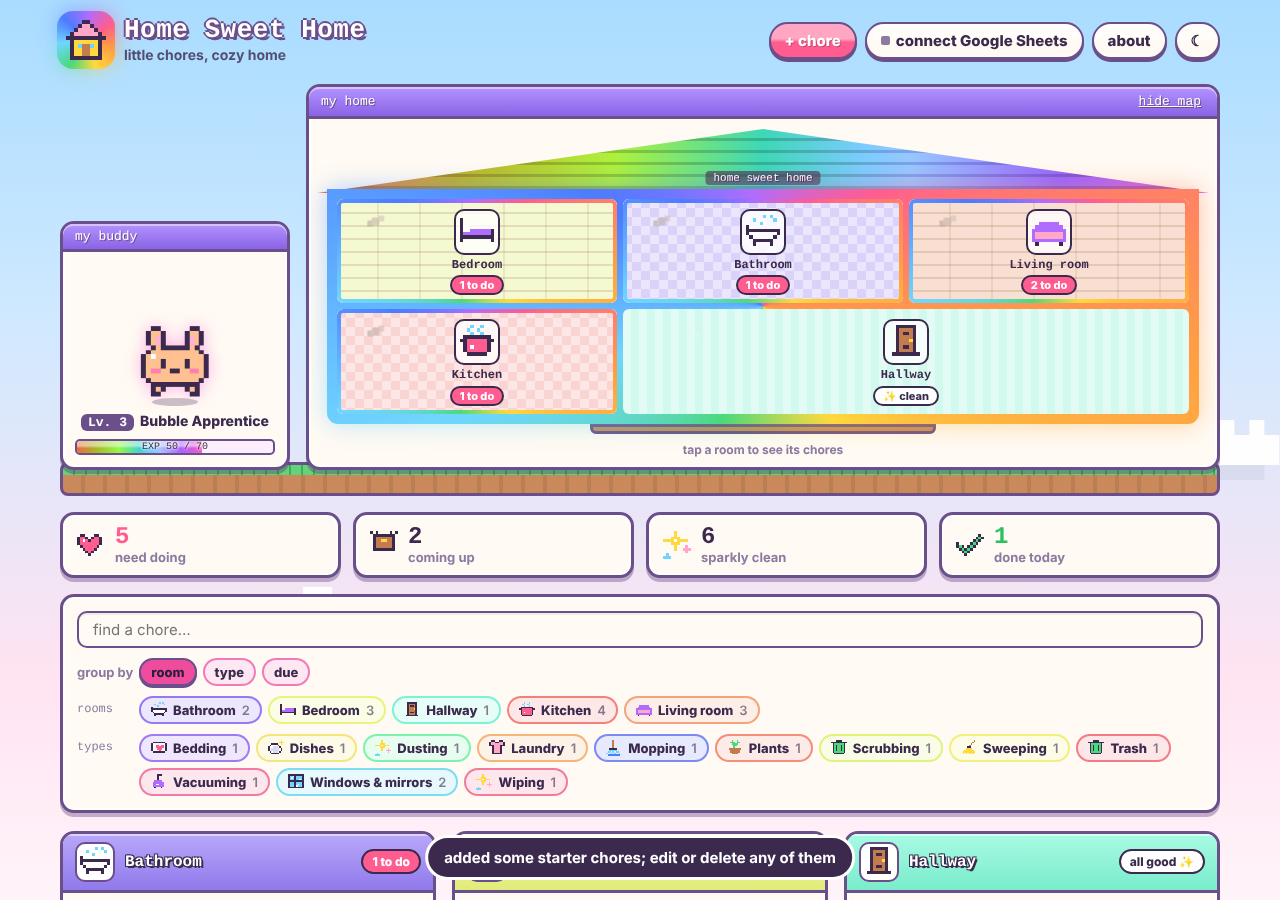
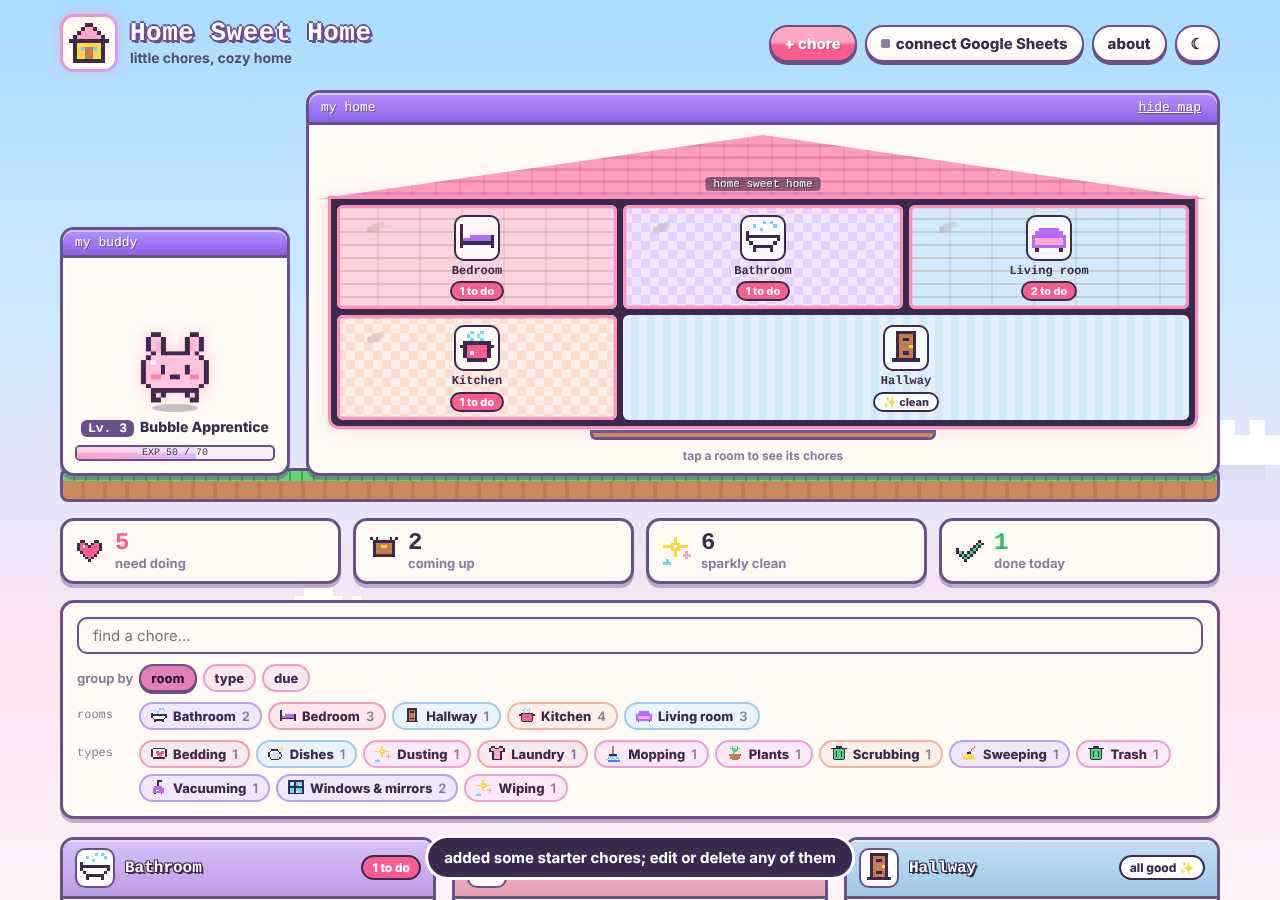
Swap the rainbow for soft pinks and lavenders; label the chore bar
- The bar under each chore now says what it counts ("3 of 7 days" since
  you last did it, out of its schedule), is lavender until due and pink
  when full, and is left off chores with no schedule.
- Due chores and rooms get a soft pink border with a gentle pulse instead
  of a spinning rainbow; the roof, EXP bar, logo ring, Bun and the
  sparkle burst use pink and lavender; room and type colours come from a
  small set of soft pastels.

Claude-Session: https://claude.ai/code/session_013W1csvUX7qKGNKXn2FL2Be

diff --git a/css/style.css b/css/style.css
@@ -1,4 +1,4 @@
-/* Theme tokens and layout for Home Sweet Home: a cozy pixel-game look, with RGB everywhere. */
+/* Theme tokens and layout for Home Sweet Home: a cozy pixel-game look in soft pinks and lavenders. */
 
 :root[data-theme="light"] {
   color-scheme: light;
@@ -13,8 +13,8 @@
   --frame-drop: rgba(80, 50, 110, 0.35);
   --accent: #ff5d8f;
   --ink: #3b2a4d;
-  --sat: 85%;
-  --lum: 62%;
+  --sat: 65%;
+  --lum: 70%;
   --tint: 95%;
   --tint-sat: 85%;
   --cloud-opacity: 0.95;
@@ -52,14 +52,17 @@
   --font-body: 'Nunito', system-ui, sans-serif;
   --font-pixel: 'Silkscreen', 'Courier New', monospace;
   --radius: 14px;
-  /* Rainbow stops; each user writes conic-gradient(from var(--spin), …) itself so the spin animates there. */
-  --rainbow-stops: #ff5d8f, #ff9f43, #ffd93d, #4cd97b, #6fd6ff, #4d7cff, #b06cff, #ff5d8f;
-  --rainbow-line: linear-gradient(90deg, #ff5d8f, #ff9f43, #ffd93d, #4cd97b, #6fd6ff, #4d7cff, #b06cff);
+  /* The soft glow used for logos, due chores and due rooms. */
+  --glow: #ff8fb8;
+  --glow-2: #c3a4ff;
+  --soft-line: linear-gradient(90deg, #ffa3c4, #d9b8ff);
 }
 
-@property --spin { syntax: '<angle>'; inherits: false; initial-value: 0deg; }
-@keyframes spin { to { --spin: 360deg; } }
-@keyframes hue { to { filter: hue-rotate(360deg); } }
+/* A gentle pulse for things that need attention. */
+@keyframes pulse {
+  0%, 100% { box-shadow: 0 0 0 0 rgba(255, 143, 184, 0); }
+  50% { box-shadow: 0 0 0 4px rgba(255, 143, 184, 0.35); }
+}
 
 * { box-sizing: border-box; }
 html, body { margin: 0; }
@@ -145,14 +148,13 @@ input:focus-visible, textarea:focus-visible, .btn:focus-visible, button:focus-vi
 .tagline { color: var(--text); font-size: 14px; font-weight: 700; opacity: 0.8; }
 .actions { display: flex; flex-wrap: wrap; align-items: center; gap: 8px; }
 
-/* The RGB ring: a slowly turning rainbow border around pixel icons. */
-.rgb-ring { position: relative; display: inline-grid; place-items: center; padding: 6px; border-radius: 14px; background: var(--panel); isolation: isolate; }
-.rgb-ring::before, .rgb-ring::after {
-  content: ''; position: absolute; inset: -3px; border-radius: 16px;
-  background: conic-gradient(from var(--spin), var(--rainbow-stops)); animation: spin 4s linear infinite;
+/* The logo frame: a soft pink-to-lavender ring with a gentle glow. */
+.glow-ring {
+  display: inline-grid; place-items: center; padding: 6px; border-radius: 14px; background: var(--panel);
+  border: 3px solid transparent;
+  background: linear-gradient(var(--panel), var(--panel)) padding-box, linear-gradient(135deg, var(--glow), var(--glow-2)) border-box;
+  box-shadow: 0 0 12px rgba(255, 143, 184, 0.45);
 }
-.rgb-ring::before { z-index: -1; }
-.rgb-ring::after { z-index: -2; filter: blur(10px); opacity: 0.55; }
 
 /* ── Sync button ── */
 .sync-wrap { position: relative; }
@@ -189,25 +191,20 @@ input:focus-visible, textarea:focus-visible, .btn:focus-visible, button:focus-vi
 .exp { position: relative; display: block; height: 16px; margin: 8px 12px 0; background: var(--panel-2); border: 2px solid var(--frame); border-radius: 5px; overflow: hidden; }
 .exp-fill {
   display: block; height: 100%; width: calc(var(--fill, 0) * 100%); transition: width 0.6s;
-  background: linear-gradient(180deg, rgba(255, 255, 255, 0.5) 0 40%, transparent 60%), var(--rainbow-line);
-  animation: hue 6s linear infinite;
+  background: linear-gradient(180deg, rgba(255, 255, 255, 0.5) 0 40%, transparent 60%), var(--soft-line);
 }
 .exp-text { position: absolute; inset: 0; display: grid; place-items: center; font-family: var(--font-pixel); font-size: 10px; color: var(--text); text-shadow: 0 0 3px var(--panel), 0 0 3px var(--panel); }
 
 /* Bun */
 .bun-wrap { position: relative; display: grid; justify-items: center; }
 .bun-btn { position: relative; background: none; border: none; padding: 0; cursor: pointer; display: grid; justify-items: center; }
-.bun-body { animation: bob 1.6s ease-in-out infinite; transform-origin: 50% 100%; filter: drop-shadow(0 0 8px rgba(255, 120, 220, 0.55)); }
+.bun-body { animation: bob 1.6s ease-in-out infinite; transform-origin: 50% 100%; filter: drop-shadow(0 0 6px rgba(255, 143, 184, 0.45)); }
 .bun-shadow { width: 46px; height: 8px; margin-top: -4px; border-radius: 50%; background: rgba(40, 20, 60, 0.25); }
 .bun .ink { fill: #3b2a4d; }
-.bun .mb { animation: rgb-fill 4s linear infinite; }
+.bun .mb { fill: #ffc4dc; }
 .bun .mp { fill: #ffb3d1; }
 .bun .mc { fill: #ff7fb0; }
 .bun .mw { fill: #ffffff; }
-@keyframes rgb-fill {
-  0%, 100% { fill: #ffa3c7; } 16% { fill: #ffc58a; } 33% { fill: #fff08a; }
-  50% { fill: #9cf0b0; } 66% { fill: #9fdcff; } 83% { fill: #c8a8ff; }
-}
 @keyframes bob { 0%, 100% { transform: translateY(0) scale(1, 1); } 50% { transform: translateY(-3px) scale(1.02, 0.98); } }
 .bun-body.jump { animation: jump 0.75s cubic-bezier(0.3, 0.7, 0.4, 1) 2, bob 1.6s ease-in-out 1.5s infinite; }
 .bun-body.spin { animation: jumpspin 1s cubic-bezier(0.3, 0.7, 0.4, 1) 2, bob 1.6s ease-in-out 2s infinite; }
@@ -239,9 +236,7 @@ input:focus-visible, textarea:focus-visible, .btn:focus-visible, button:focus-vi
   background: #fff; border-right: 3px solid #3b2a4d; border-bottom: 3px solid #3b2a4d; transform: rotate(45deg);
 }
 .bubble strong {
-  display: block; font-family: var(--font-pixel); font-size: 14px; color: #ff3d7f;
-  background: linear-gradient(90deg, #ff3d7f, #ff8a1f, #e0b000, #20b858, #1fa8e0, #3d6bff, #9a4dff);
-  -webkit-background-clip: text; background-clip: text; -webkit-text-fill-color: transparent;
+  display: block; font-family: var(--font-pixel); font-size: 14px; color: #ff4f8b;
 }
 .bubble p { margin: 3px 0 0; font-weight: 800; }
 .bubble p.quote { font-weight: 600; color: #7a5f96; }
@@ -271,8 +266,7 @@ input:focus-visible, textarea:focus-visible, .btn:focus-visible, button:focus-vi
 }
 .levelup strong {
   font-family: var(--font-pixel); font-size: clamp(36px, 9vw, 72px); line-height: 1; white-space: nowrap;
-  color: #ffd93d; text-shadow: 3px 0 0 #3b2a4d, -3px 0 0 #3b2a4d, 0 3px 0 #3b2a4d, 0 -3px 0 #3b2a4d, 5px 5px 0 #3b2a4d;
-  animation: hue 1.5s linear infinite;
+  color: #ffb3cf; text-shadow: 3px 0 0 #3b2a4d, -3px 0 0 #3b2a4d, 0 3px 0 #3b2a4d, 0 -3px 0 #3b2a4d, 5px 5px 0 #3b2a4d;
 }
 .levelup span { font-weight: 800; background: #fff; color: #3b2a4d; border: 3px solid #3b2a4d; border-radius: 999px; padding: 4px 14px; white-space: nowrap; }
 @keyframes levelup {
@@ -289,9 +283,9 @@ input:focus-visible, textarea:focus-visible, .btn:focus-visible, button:focus-vi
   position: relative; height: 64px; margin: 0 -14px;
   clip-path: polygon(50% 0, 100% 100%, 0 100%);
   background:
-    repeating-linear-gradient(180deg, transparent 0 9px, rgba(0, 0, 0, 0.18) 9px 12px),
-    linear-gradient(90deg, #ff5d8f, #ff9f43, #ffd93d, #4cd97b, #6fd6ff, #4d7cff, #b06cff);
-  animation: hue 8s linear infinite;
+    repeating-linear-gradient(180deg, transparent 0 9px, rgba(120, 40, 80, 0.18) 9px 12px),
+    repeating-linear-gradient(90deg, transparent 0 22px, rgba(120, 40, 80, 0.10) 22px 24px),
+    #ff9ebf;
 }
 .roof-sign {
   position: absolute; left: 50%; bottom: 8px; transform: translateX(-50%); white-space: nowrap;
@@ -303,13 +297,8 @@ input:focus-visible, textarea:focus-visible, .btn:focus-visible, button:focus-vi
   display: grid; grid-template-columns: repeat(3, minmax(0, 1fr)); grid-auto-flow: dense; gap: 6px;
   padding: 6px; background: #3b2a4d; border-radius: 0 0 8px 8px;
 }
-/* An RGB glow around the whole house */
-.rooms::before, .rooms::after {
-  content: ''; position: absolute; inset: -4px; border-radius: 0 0 11px 11px;
-  background: conic-gradient(from var(--spin), var(--rainbow-stops)); animation: spin 5s linear infinite;
-}
-.rooms::before { z-index: -1; }
-.rooms::after { z-index: -2; filter: blur(12px); opacity: 0.5; }
+/* A soft pink glow around the whole house */
+.rooms { box-shadow: 0 0 0 3px var(--glow), 0 0 16px rgba(255, 143, 184, 0.45); }
 .rooms-empty { grid-column: 1 / -1; margin: 0; padding: 26px 10px; text-align: center; font-weight: 700; background: var(--panel-2); color: var(--muted); border-radius: 6px; }
 .porch { height: 10px; margin: 4px 30% 0; background: var(--dirt); border: 3px solid var(--frame); border-radius: 0 0 6px 6px; }
 .map-hint { margin: 8px 0 0; text-align: center; font-size: 12px; font-weight: 700; }
@@ -337,12 +326,12 @@ input:focus-visible, textarea:focus-visible, .btn:focus-visible, button:focus-vi
 .room-badge { font-size: 11px; font-weight: 800; padding: 1px 8px; border-radius: 999px; background: rgba(255, 255, 255, 0.9); color: #3b2a4d; border: 2px solid #3b2a4d; white-space: nowrap; }
 .state-due .room-badge { background: #ff5d8f; color: #fff; }
 .state-soon .room-badge { background: #fff1c7; }
-/* Rooms with chores due get a turning RGB frame */
+/* Rooms with chores due get a pink frame that gently pulses */
 .room-tile.state-due::before {
-  content: ''; position: absolute; inset: 0; border-radius: 6px; padding: 4px; pointer-events: none;
-  background: conic-gradient(from var(--spin), var(--rainbow-stops)); animation: spin 3s linear infinite;
-  -webkit-mask: linear-gradient(#000 0 0) content-box, linear-gradient(#000 0 0); -webkit-mask-composite: xor; mask-composite: exclude;
+  content: ''; position: absolute; inset: 0; border-radius: 6px; pointer-events: none;
+  box-shadow: inset 0 0 0 3px var(--glow); animation: tilepulse 2.4s ease-in-out infinite;
 }
+@keyframes tilepulse { 50% { box-shadow: inset 0 0 0 5px rgba(255, 143, 184, 0.7); } }
 /* Dust puffs (due) and twinkles (clean) */
 .fx { position: absolute; width: 8px; height: 8px; pointer-events: none; opacity: 0; }
 .fx1 { left: 12%; top: 18%; }
@@ -379,7 +368,7 @@ input:focus-visible, textarea:focus-visible, .btn:focus-visible, button:focus-vi
 .group { --hue: 320; overflow: hidden; }
 .group-head {
   display: flex; align-items: center; gap: 10px; padding: 8px 12px;
-  background: linear-gradient(180deg, hsl(var(--hue) 90% 82%), hsl(var(--hue) 75% 70%));
+  background: linear-gradient(180deg, hsl(var(--hue) 75% 86%), hsl(var(--hue) 60% 76%));
   border-bottom: 3px solid var(--frame);
   box-shadow: inset 0 2px 0 rgba(255, 255, 255, 0.5);
 }
@@ -404,7 +393,8 @@ input:focus-visible, textarea:focus-visible, .btn:focus-visible, button:focus-vi
 
 .chores { list-style: none; margin: 0; padding: 8px; display: grid; gap: 8px; }
 .chore { position: relative; display: flex; align-items: stretch; gap: 6px; background: var(--panel); border: 2px solid var(--border); border-radius: 12px; }
-.chore.rgb-glow { border-color: transparent; background: linear-gradient(var(--panel), var(--panel)) padding-box, conic-gradient(from var(--spin), var(--rainbow-stops)) border-box; animation: spin 5s linear infinite; }
+/* Chores that need doing get a soft pink border with a gentle pulse. */
+.chore.needs-love { border-color: var(--glow); animation: pulse 2.6s ease-in-out infinite; }
 .chore-main {
   flex: 1; min-width: 0; display: grid; grid-template-columns: auto 1fr auto; gap: 10px; align-items: center;
   font: inherit; color: inherit; text-align: left; background: none; border: none; padding: 8px 4px 8px 10px; cursor: pointer; border-radius: 10px;
@@ -420,13 +410,15 @@ input:focus-visible, textarea:focus-visible, .btn:focus-visible, button:focus-vi
 .chore-when { display: grid; justify-items: end; gap: 3px; }
 .ago { font-size: 11px; color: var(--muted); white-space: nowrap; }
 
-/* The dust meter: chunky pixel segments that fill as the chore comes due. */
-.meter { display: block; height: 8px; margin-top: 3px; border-radius: 3px; background: var(--panel-2); overflow: hidden; max-width: 180px; }
+/* Days since last done, out of the chore's schedule: a little bar plus "3 of 7 days". */
+.meter-row { display: flex; align-items: center; gap: 8px; margin-top: 3px; }
+.meter { flex: 0 1 120px; display: block; height: 8px; border-radius: 4px; background: var(--panel-2); overflow: hidden; border: 1px solid var(--border); }
 .meter-fill {
-  display: block; height: 100%; width: calc(var(--fill) * 100%);
-  background: repeating-linear-gradient(90deg, transparent 0 7px, var(--panel) 7px 9px), linear-gradient(90deg, #4cd97b, #ffd93d 60%, #ff9f43 85%, #ff5d8f);
-  background-size: auto, 180px 100%;
+  display: block; height: 100%; width: calc(var(--fill) * 100%); border-radius: 4px;
+  background: repeating-linear-gradient(90deg, transparent 0 7px, rgba(255, 255, 255, 0.55) 7px 9px), #c3a4ff;
 }
+.meter-full .meter-fill { background-color: var(--glow); }
+.meter-label { font-size: 11px; font-weight: 700; color: var(--muted); white-space: nowrap; }
 
 .done-btn { flex: none; width: 52px; display: grid; place-items: center; cursor: pointer; background: var(--panel-2); border: none; border-left: 2px dashed var(--border); border-radius: 0 10px 10px 0; }
 .done-btn .pix { opacity: 0.35; filter: grayscale(1); transition: transform 0.15s, opacity 0.15s; }
@@ -435,7 +427,7 @@ input:focus-visible, textarea:focus-visible, .btn:focus-visible, button:focus-vi
 :root[data-theme="dark"] .done-btn.is-done { background: #193d2a; }
 .done-btn.is-done .pix { opacity: 1; filter: none; }
 
-.burst { position: fixed; width: 7px; height: 7px; pointer-events: none; z-index: 100; background: hsl(var(--hue) 95% 62%); animation: burst 0.7s ease-out forwards; }
+.burst { position: fixed; width: 7px; height: 7px; pointer-events: none; z-index: 100; background: var(--c); animation: burst 0.7s ease-out forwards; }
 @keyframes burst {
   from { transform: translate(-50%, -50%) scale(1); opacity: 1; }
   to { transform: translate(calc(-50% + var(--dx)), calc(-50% + var(--dy))) scale(0.3); opacity: 0; }

diff --git a/js/main.js b/js/main.js
@@ -167,14 +167,13 @@ function choreRow({ c, last, st }) {
   const doneToday = last === todayISO();
   const fill = st.key === 'never' ? 1 : st.key === 'whenever' ? 0 : Math.min(1, st.ratio);
   const sub = [view.group !== 'room' && c.room, view.group !== 'type' && c.type, everyText(c.everyDays)].filter(Boolean).join(' · ');
-  return el('li', { class: `chore st-${st.key}${['overdue', 'due', 'never'].includes(st.key) ? ' rgb-glow' : ''}` },
+  return el('li', { class: `chore st-${st.key}${['overdue', 'due', 'never'].includes(st.key) ? ' needs-love' : ''}` },
     el('button', { class: 'chore-main', onclick: () => openEditor(c), 'aria-label': `Edit ${c.name}` },
       el('span', { class: 'chore-icon', style: { '--hue': hueFor(typeName(c)) } }, pixelSvg(typeIcon(c.type, c.name), 26)),
       el('span', { class: 'chore-text' },
         el('span', { class: 'chore-name', text: c.name }),
         el('span', { class: 'chore-sub', text: sub }),
-        el('span', { class: 'meter', title: 'dust meter', role: 'img', 'aria-label': `dust meter ${Math.round(fill * 100)}%` },
-          el('span', { class: 'meter-fill', style: { '--fill': fill.toFixed(3) } }))),
+        meterRow(c, st, fill)),
       el('span', { class: 'chore-when' },
         el('span', { class: `pill st-${st.key}`, text: st.label }),
         el('span', { class: 'ago', text: last ? `done ${agoText(Math.max(0, st.days))}` : '' }))),
@@ -184,6 +183,21 @@ function choreRow({ c, last, st }) {
       'aria-label': doneToday ? `${c.name} done today, tap to undo` : `Mark ${c.name} done today`,
       onclick: (e) => toggleDoneToday(c, e.currentTarget),
     }, pixelSvg('check', 22)));
+}
+
+/**
+ * meterRow(chore, status, fill) -> HTMLElement|null
+ *
+ * The bar under a chore: days since it was last done out of its schedule, e.g. "3 of 7 days".
+ * It is full on the day the chore is due. Chores with no schedule have no bar.
+ */
+function meterRow(c, st, fill) {
+  if (!c.everyDays) return null;
+  const days = st.key === 'never' ? null : Math.max(0, st.days);
+  const label = days == null ? 'not done yet' : `${days} of ${c.everyDays} day${c.everyDays === 1 ? '' : 's'}`;
+  return el('span', { class: `meter-row${fill >= 1 ? ' meter-full' : ''}`, title: 'days since you last did it, out of how often it repeats' },
+    el('span', { class: 'meter', 'aria-hidden': 'true' }, el('span', { class: 'meter-fill', style: { '--fill': fill.toFixed(3) } })),
+    el('span', { class: 'meter-label', text: label }));
 }
 
 // ── Marking chores done ────────────────────────────────────────────────
@@ -215,7 +229,7 @@ function toggleDoneToday(chore, button) {
   }
 }
 
-/** A little burst of rainbow pixels from a button. */
+/** A little burst of pastel pixels from a button. */
 function sparkle(from) {
   if (calm() || !from) return;
   const r = from.getBoundingClientRect();
@@ -226,7 +240,7 @@ function sparkle(from) {
       class: 'burst',
       style: {
         left: `${r.left + r.width / 2}px`, top: `${r.top + r.height / 2}px`,
-        '--dx': `${Math.cos(a) * d}px`, '--dy': `${Math.sin(a) * d}px`, '--hue': String((i * 26) % 360),
+        '--dx': `${Math.cos(a) * d}px`, '--dy': `${Math.sin(a) * d}px`, '--c': ['#ff8fb8', '#c3a4ff', '#ffd6e6', '#ffe08a'][i % 4],
       },
     });
     document.body.append(p);

diff --git a/index.html b/index.html
@@ -30,7 +30,7 @@
 <div class="sky" id="sky" aria-hidden="true"></div>
 <header class="topbar">
   <div class="brand">
-    <span class="logo rgb-ring" id="logo"></span>
+    <span class="logo glow-ring" id="logo"></span>
     <div>
       <h1>Home Sweet Home</h1>
       <span class="tagline">little chores, cozy home</span>
@@ -154,8 +154,9 @@
     <h2 id="about-title">About Home Sweet Home</h2>
     <p>A cozy little place to keep track of the chores around your home: what needs doing, which
       room it is in, what kind of task it is, and when you last did it.</p>
-    <p>Each chore has a little <strong>dust meter</strong> that fills up as the days pass. When it
-      is full, the chore is due and gets a rainbow glow. Tap <strong>✓</strong> when you have done it.</p>
+    <p>The little bar under each chore counts the days since you last did it, out of how often it
+      repeats (like "3 of 7 days"). When it is full, the chore is due and gets a soft pink glow. Tap
+      <strong>✓</strong> when you have done it.</p>
     <p><strong>Your privacy.</strong> Your chores are kept in only two places: a Google Sheet in
       your own Google Drive, and this browser. There is no server and no analytics. The app can only
       open the one sheet it created, not anything else in your Drive, and it never shares that sheet.</p>
@@ -177,7 +178,7 @@
 
 <div class="welcome" id="welcome" hidden>
   <div class="welcome-card">
-    <span class="welcome-logo rgb-ring"></span>
+    <span class="welcome-logo glow-ring"></span>
     <h1 class="welcome-title">Home Sweet Home</h1>
     <p class="tagline">little chores, cozy home</p>
     <p>Keep track of what needs cleaning, room by room, and when you last did it.</p>

diff --git a/js/mascot.js b/js/mascot.js
@@ -1,7 +1,7 @@
-// Bun, the RGB dust bunny: hops around, cheers when you finish chores, and celebrates level-ups.
+// Bun, the pink dust bunny: hops around, cheers when you finish chores, and celebrates level-ups.
 //
-// Bun is drawn as 16x16 pixel art. Only its body pixels (class `mb`) change colour, cycling
-// through the rainbow in CSS; the outline, ears, cheeks and eye shine keep their own colours.
+// Bun is drawn as 16x16 pixel art. Each pixel's colour comes from CSS by its class (body `mb`,
+// inner ears `mp`, cheeks `mc`, eye shine `mw`, outline `ink`).
 
 import { calm, el } from './dom.js';
 
@@ -164,7 +164,7 @@ export function floatText(from, text, cls = '') {
   setTimeout(() => t.remove(), 3000);
 }
 
-/** A big rainbow "LEVEL UP!" across the screen. */
+/** A big "LEVEL UP!" across the screen. */
 export function levelUpBanner(level, title) {
   const b = el('div', { class: 'levelup', role: 'status' },
     el('strong', { text: 'LEVEL UP!' }), el('span', { text: `Lv. ${level} · ${title}` }));

diff --git a/js/icons.js b/js/icons.js
@@ -390,11 +390,14 @@ export { ICONS };
 /**
  * hueFor(text) -> number
  *
- * A stable rainbow hue (0–359) for a room or type name, so each one keeps its own colour.
+ * A stable hue for a room or type name, picked from a small set of soft pastels (pinks, lavenders,
+ * peach, mint, sky), so each one keeps its own colour without turning into a rainbow.
  */
+const SOFT_HUES = [340, 315, 285, 265, 20, 160, 205];
+
 export function hueFor(text) {
   const t = String(text || '').toLowerCase();
   let h = 7;
-  for (let i = 0; i < t.length; i++) h = (h * 31 + t.charCodeAt(i)) % 3600;
-  return Math.round(h / 10);
+  for (let i = 0; i < t.length; i++) h = (h * 31 + t.charCodeAt(i)) % 9973;
+  return SOFT_HUES[h % SOFT_HUES.length];
 }

diff --git a/js/homemap.js b/js/homemap.js
@@ -1,4 +1,4 @@
-// The little RGB house map: one tile per room, glowing when chores there are due.
+// The little house map: one tile per room, glowing pink when chores there are due.
 
 import { el } from './dom.js';
 import { hueFor, pixelSvg, roomIcon } from './icons.js';

diff --git a/README.md b/README.md
@@ -17,19 +17,20 @@ doing, which room it is in, what kind of task it is, and when you last did it.
   "Linen closet" or "Descaling" work too.
 - **Little pixel icons.** Rooms and types get a pixel-art icon picked from keywords in the name
   (a pot for kitchens, a mop for mopping, a shirt for laundry…), and each room and type keeps its
-  own rainbow colour. Anything unrecognised gets a sparkle or a little house.
+  own soft pastel colour. Anything unrecognised gets a sparkle or a little house.
 - **When you last did it.** Tap ✓ to mark a chore done today (tap again, or *undo*, to take it
   back). Open a chore to log a different date or remove one. Every "done" is kept as a dated row,
   so the sheet holds your full history.
-- **What is due.** Give a chore a schedule (daily, weekly, every 10 days, …) and its dust meter
-  fills as the days pass. Due and overdue chores get a turning RGB border. Chores with no schedule
-  are "whenever".
+- **What is due.** Give a chore a schedule (daily, weekly, every 10 days, …). The little bar under
+  it counts the days since you last did it, out of the schedule ("3 of 7 days"), and is full on the
+  day it is due. Due and overdue chores get a soft pink border. Chores with no schedule are
+  "whenever" and have no bar.
 - **Filter and search.** Light up one or more room or type chips, or search names and notes.
 - **Your home map.** A little pixel house sits in the middle of the page with a tile for each
   room. Each tile has its own floor (tiles, wood, carpet or grass). Rooms with chores due get a
-  turning RGB frame and dust puffs, and clean rooms twinkle. Tap a room to see only its chores (tap
+  soft pink frame and dust puffs, and clean rooms twinkle. Tap a room to see only its chores (tap
   again to see everything). *hide map* tucks it away.
-- **Bun, your cleaning buddy.** An RGB dust bunny who hops about and cheers whenever you finish a
+- **Bun, your cleaning buddy.** A pink pixel dust bunny who hops about and cheers whenever you finish a
   chore ("omg great job!! You finished 3 chores today! You should…"). If you have scrolled down,
   Bun pops up in the corner instead. Tap Bun to say hi. The encouragements are written for this
   app; they are not quotes from anyone.
@@ -118,7 +119,7 @@ different addresses). After changing code, hard reload (Cmd+Shift+R).
 | Path | What it holds |
 |---|---|
 | `index.html` | page layout, dialogs, security policy |
-| `css/style.css` | light (day sky) and dark (night sky) themes, game-window panels, RGB borders, animations, phone layout |
+| `css/style.css` | light (day sky) and dark (night sky) themes, game-window panels, animations, phone layout |
 | `js/main.js` | the board, editor, marking chores done, wiring |
 | `js/homemap.js` | the little house map |
 | `js/mascot.js` | Bun, the cheers, floating EXP and the level-up banner |
